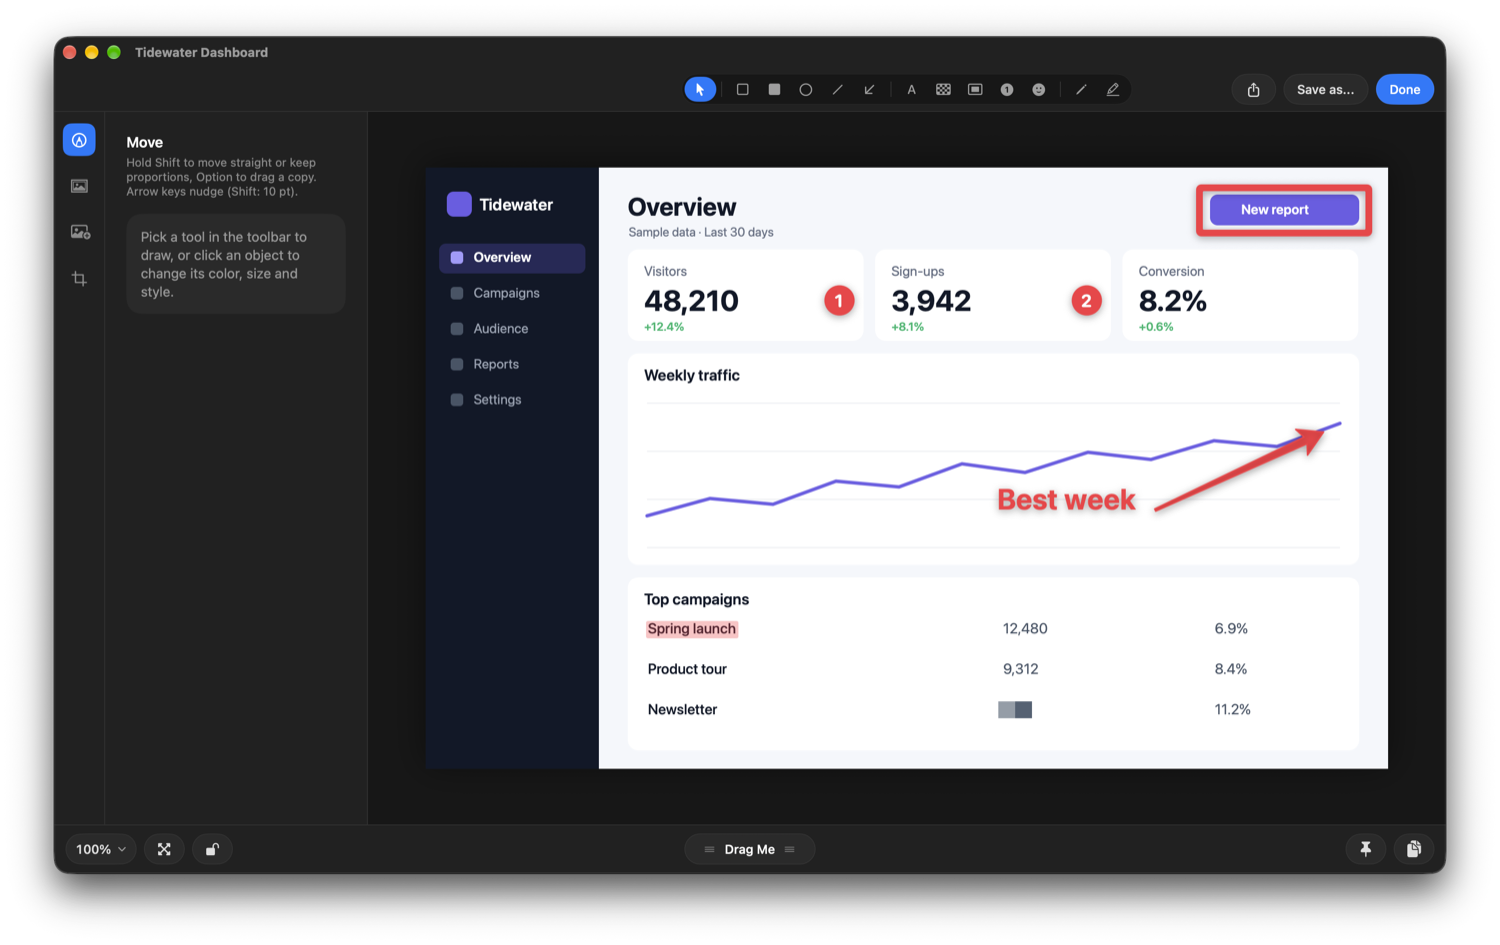
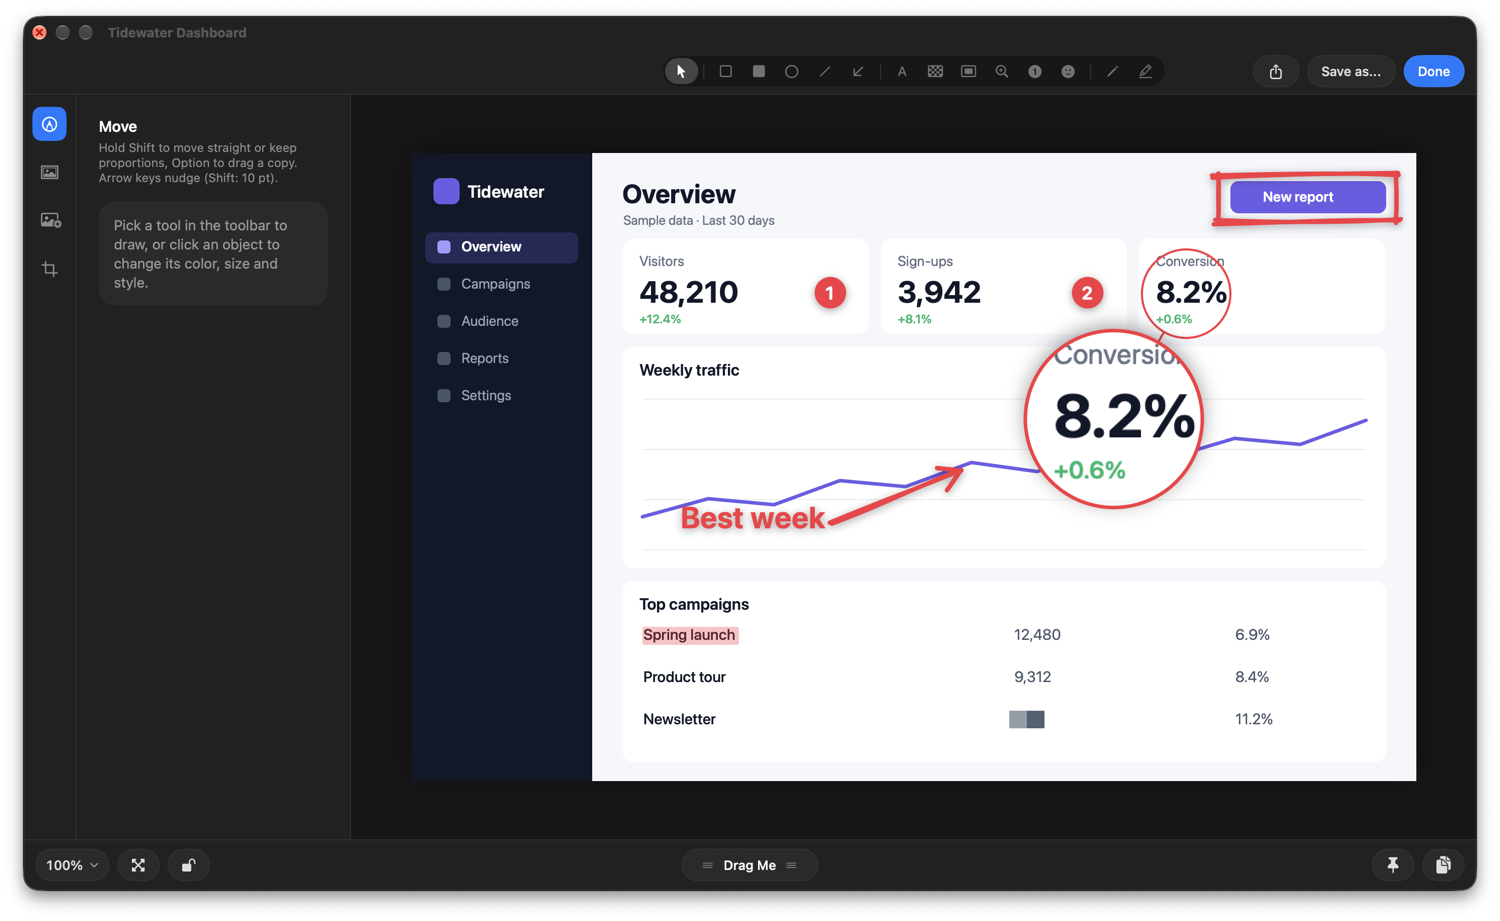
README: new pictures for the screenshot editor and Studio Mode
The screenshot editor shows hand-drawn shapes and a magnifier callout; Studio Mode shows captions made from
a spoken track, stacked above the typed keys. Same made-up Tidewater dashboard as before.

diff --git a/README.md b/README.md
@@ -35,24 +35,26 @@ names are trademarks of their respective owners.
 Annotate a screenshot, put it on a background, edit a recording, and keep your latest captures at hand. (The dashboard
 in these pictures is made up.)
 
-**Screenshot editor:** arrows, shapes, text, counters, highlighter and blur.
+**Screenshot editor:** arrows, shapes (also hand-drawn), text, counters, highlighter, blur and a magnifier for
+enlarged callouts.
 
-![The screenshot editor with annotations on a sample dashboard](docs/images/screenshot-editor.png)
+![The screenshot editor with hand-drawn shapes, a magnifier callout and other annotations on a sample dashboard](docs/images/screenshot-editor.png)
 
 **Backgrounds:** gradients, wallpapers, padding, shadow and round corners, with presets.
 
 ![The Background panel with a gradient behind the sample dashboard](docs/images/background.png)
 
-**Video editor:** trim, cut and zoom a recording, add a background, export as MP4, MOV or GIF.
+**Video editor:** trim, cut and zoom a recording, add captions and a background, export as MP4, MOV or GIF.
 
 ![The video editor with zooms on the timeline and a gradient background](docs/images/video-editor.png)
 
 **Studio Mode:** the screen, pointer, keys and camera are recorded separately, so all of it stays adjustable after
 recording. Automatic zooms follow your cursor, and you can change the cursor's size, style, smoothing and click effects,
 show or hide keystrokes, and move or resize the camera. The timeline shows every click, drag, scroll, shortcut and typed
-word, so you can find a moment quickly or remove what shouldn't be seen.
+word, so you can find a moment quickly or remove what shouldn't be seen. Captions turn what you say into text, here on
+your Mac, and stay editable on their own track.
 
-![Studio Mode with automatic zooms, a camera action and recorded clicks and keystrokes on the timeline](docs/images/studio-mode.png)
+![Studio Mode with automatic zooms, a camera action, recorded clicks and keystrokes, and captions on the timeline](docs/images/studio-mode.png)
 
 <table>
 <tr>
